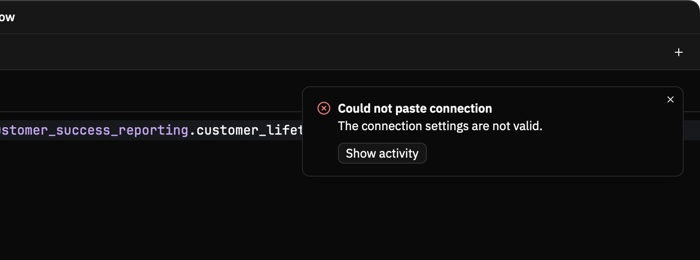
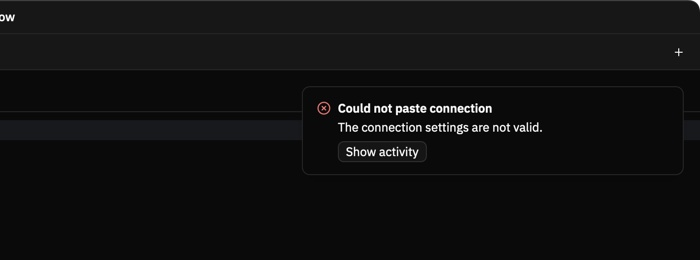
fix(ui): even and widen the spacing between toast lines and buttons

Changed region(s): [[0.48, 0.4615, 0.78, 0.6462], [0.0, 0.4615, 0.45, 0.5231], [0.93, 0.3692, 0.96, 0.4]]

diff --git a/src/ui/toast.rs b/src/ui/toast.rs
@@ -91,12 +91,25 @@ pub(super) fn notice_with_actions(
         })
 }
 
+/// The space between the lines of a toast: the title, the name, and the
+/// detail.
+const LINE_GAP: Rems = Rems(0.125);
+
+/// The space above the row of buttons of a toast, after the
+/// [`LINE_GAP`] of the body. With it, the gap from the descenders of the
+/// last line to the buttons equals the gap between two lines of text
+/// (measured on screen at 2x). A line draws its descenders near the bottom
+/// of its line box, so the space is smaller than the leading.
+pub(super) fn actions_gap() -> Rems {
+    rems(0.28125)
+}
+
 /// The row of buttons below the text of a toast, aligned with the text.
 fn actions_row(actions: &[ToastAction], cx: &mut Context<Notification>) -> impl IntoElement {
     h_flex()
         .id("actions")
         .test_support()
-        .mt(rems(0.625))
+        .mt(actions_gap())
         .gap_2()
         .flex_wrap()
         .children(actions.iter().map(|action| action_button(action, cx)))
@@ -166,7 +179,12 @@ pub(super) fn body(kind: NotificationType, id: impl Into<ElementId>) -> Stateful
         NotificationType::Error | NotificationType::Warning => Role::Alert,
         NotificationType::Info | NotificationType::Success => Role::Status,
     };
-    v_flex().id(id).role(role).min_w_0().line_height(rems(1.25))
+    v_flex()
+        .id(id)
+        .role(role)
+        .min_w_0()
+        .line_height(rems(1.25))
+        .gap(LINE_GAP)
 }
 
 /// The bold first line that names the event.

diff --git a/tests/ui/connection_sharing.rs b/tests/ui/connection_sharing.rs
@@ -284,6 +284,17 @@ fn invalid_connection_settings_keep_the_parser_error_in_activity(cx: &mut TestAp
         toast_detail(&app, cx, "paste-connection-toast"),
         "The connection settings are not valid."
     );
+    // The lines have a gap between them, and the buttons have the same
+    // gap on screen plus a little for the descenders of the last line. The
+    // old 10 pt space above the buttons made that gap nearly twice as large.
+    app.update(cx, |window, _| {
+        let toast = window.within("paste-connection-toast");
+        let title = toast.find("title").bounds();
+        let detail = toast.find("detail").bounds();
+        let actions = toast.find("actions").bounds();
+        assert!(detail.top() > title.bottom(), "{title:?} {detail:?}");
+        assert!(actions.top() - detail.bottom() < gpui_kit::px(8.));
+    });
     app.click(cx, "paste-connection-activity");
     app.wait_for(cx, "activity");
     // The toast closes, so it no longer covers the Activity header.

diff --git a/src/ui/export_dialog/background.rs b/src/ui/export_dialog/background.rs
@@ -151,7 +151,7 @@ impl Render for ProgressNotice {
                 h_flex()
                     .id("export-progress-actions")
                     .test_support()
-                    .mt(rems(0.625))
+                    .mt(toast::actions_gap())
                     .flex_wrap()
                     .gap_2()
                     .children(actions),
